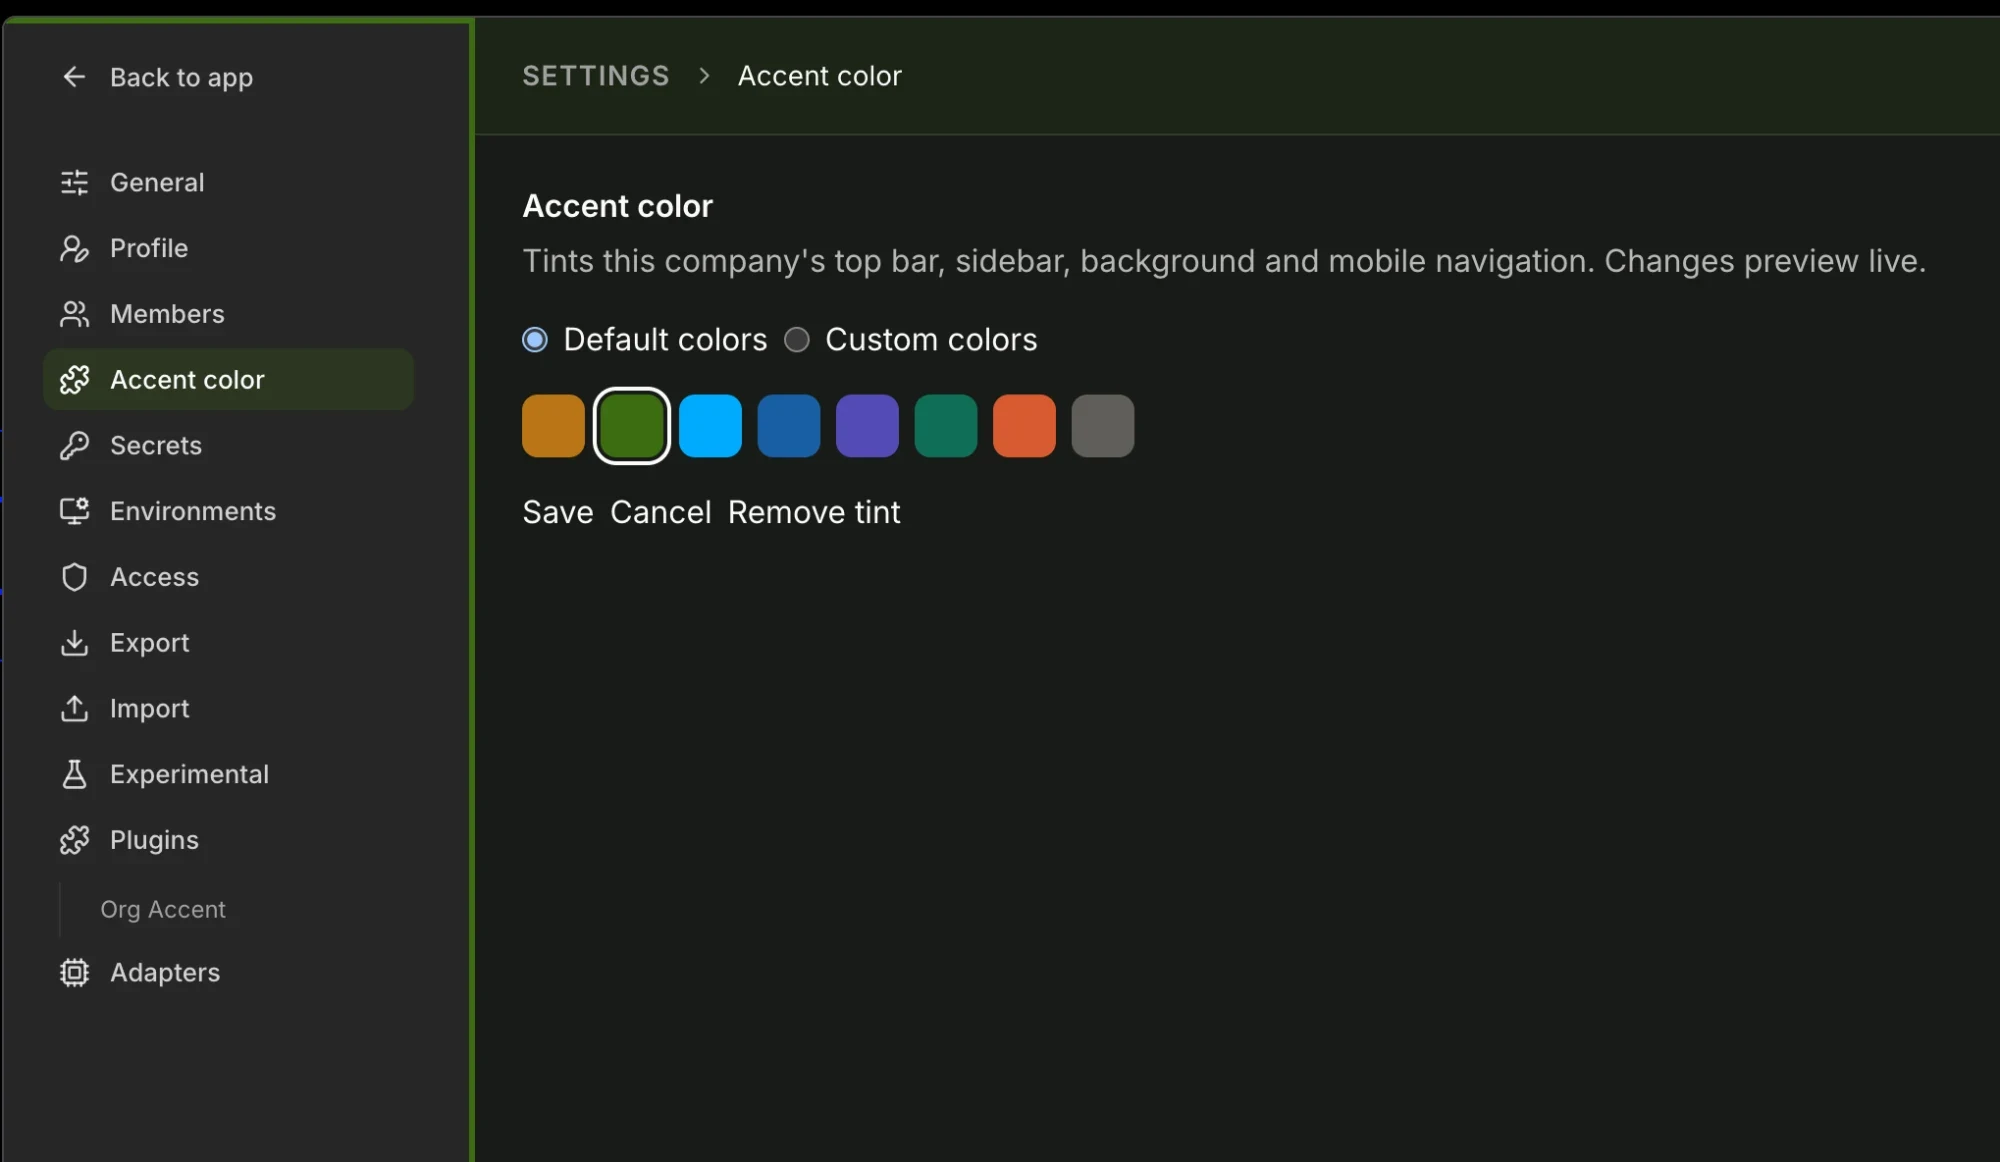
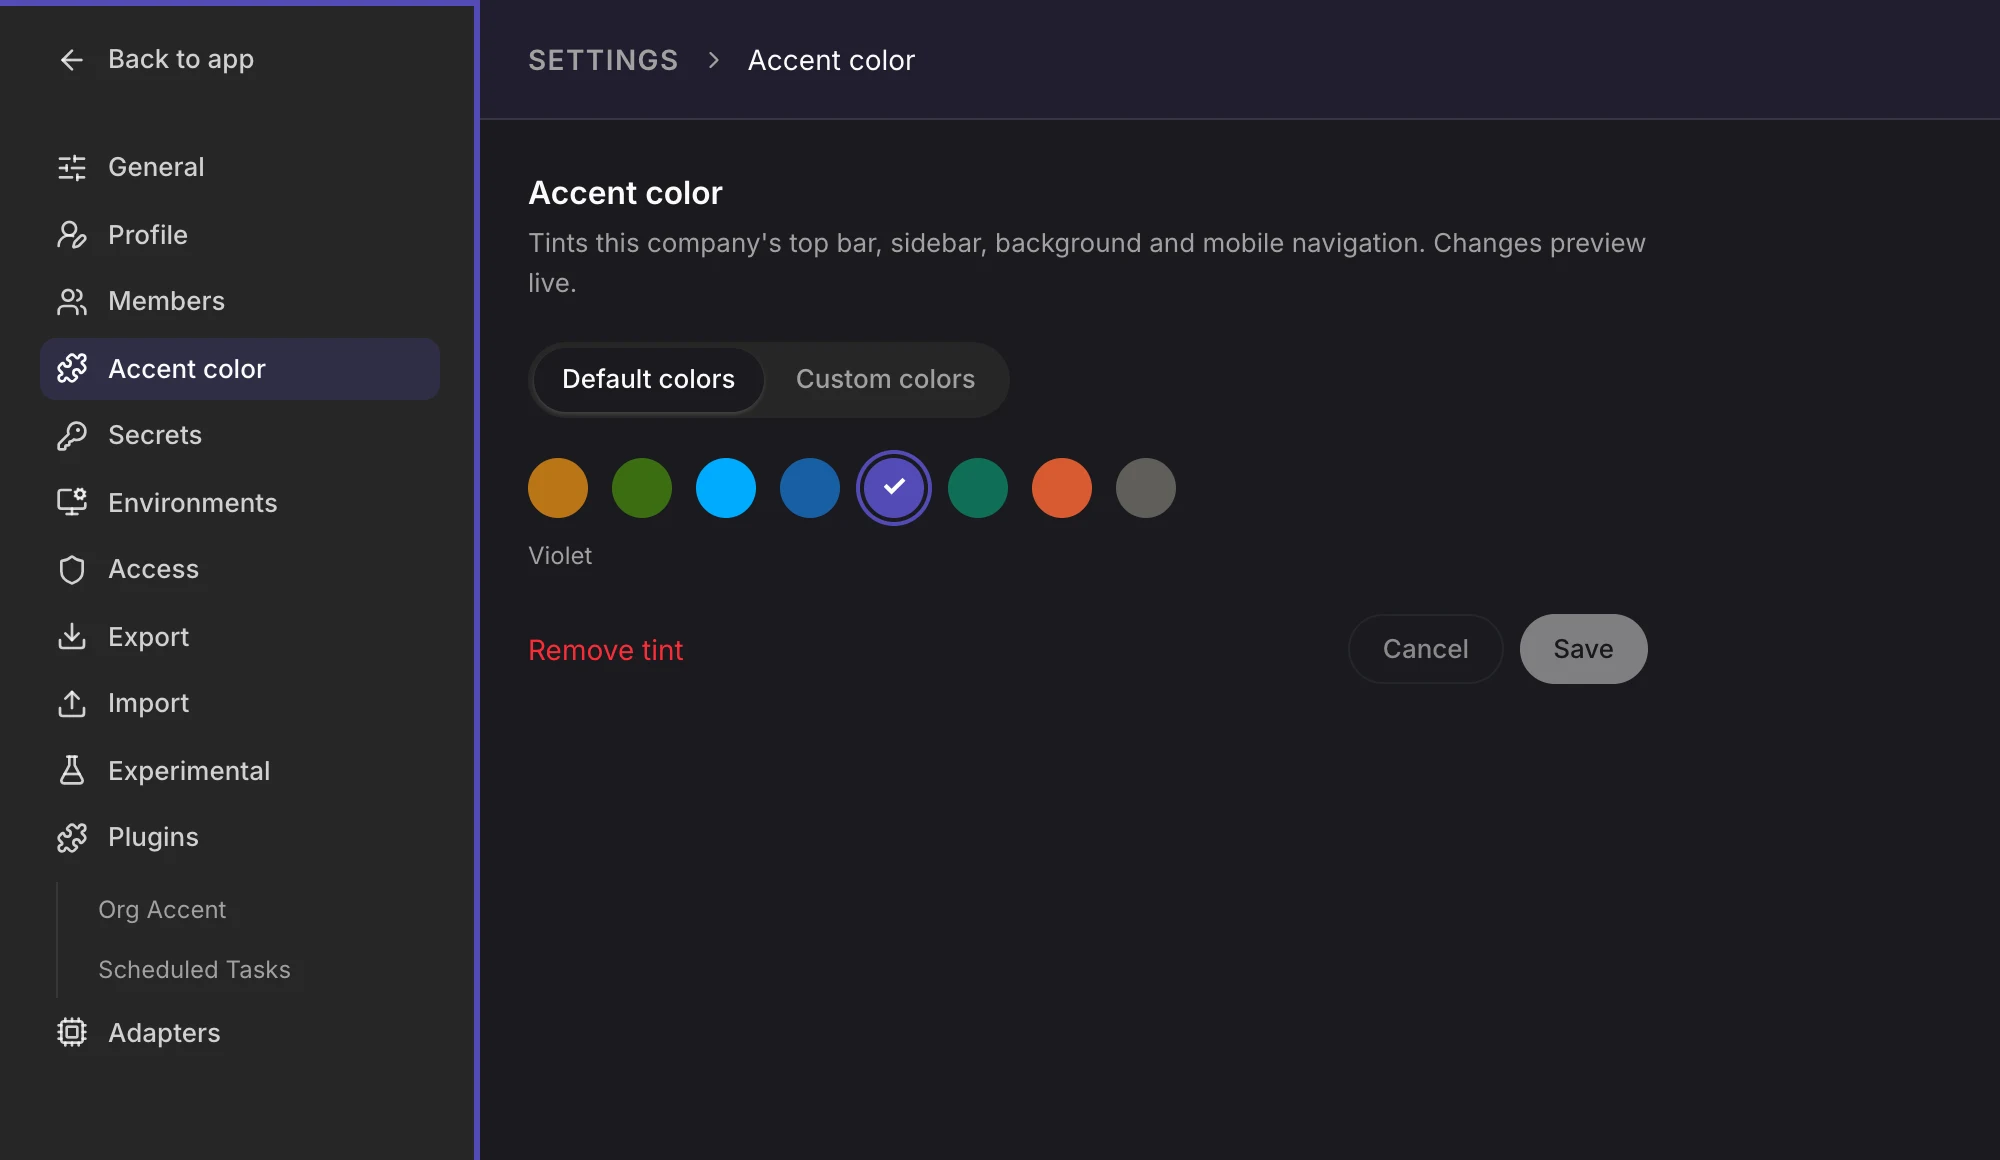
README: settings screenshots for the v0.5.0 redesign

diff --git a/README.md b/README.md
@@ -130,12 +130,12 @@ needed at runtime. The plugin asks for four capabilities:
 
 Repeat for each company. Only board users can change the color.
 
-![Accent color page in Default colors mode: eight swatches, Green selected](docs/settings-default.webp)
+![Accent color page in Default colors mode: a Default/Custom pill switch and eight round swatches, Violet selected](docs/settings-default.webp)
 
 If none of the presets suits you, choose Custom colors. You can then type any
 color, set how strong the tints are and turn each accent on or off.
 
-![Accent color page in Custom colors mode: color pickers, two tint sliders and three toggles](docs/settings-custom.webp)
+![Accent color page in Custom colors mode: Colors, Tint and Where to show it cards with color chips, sliders and switches](docs/settings-custom.webp)
 
 A company with nothing saved opens on Default colors. Remove tint brings a
 company back to stock Paperclip.
